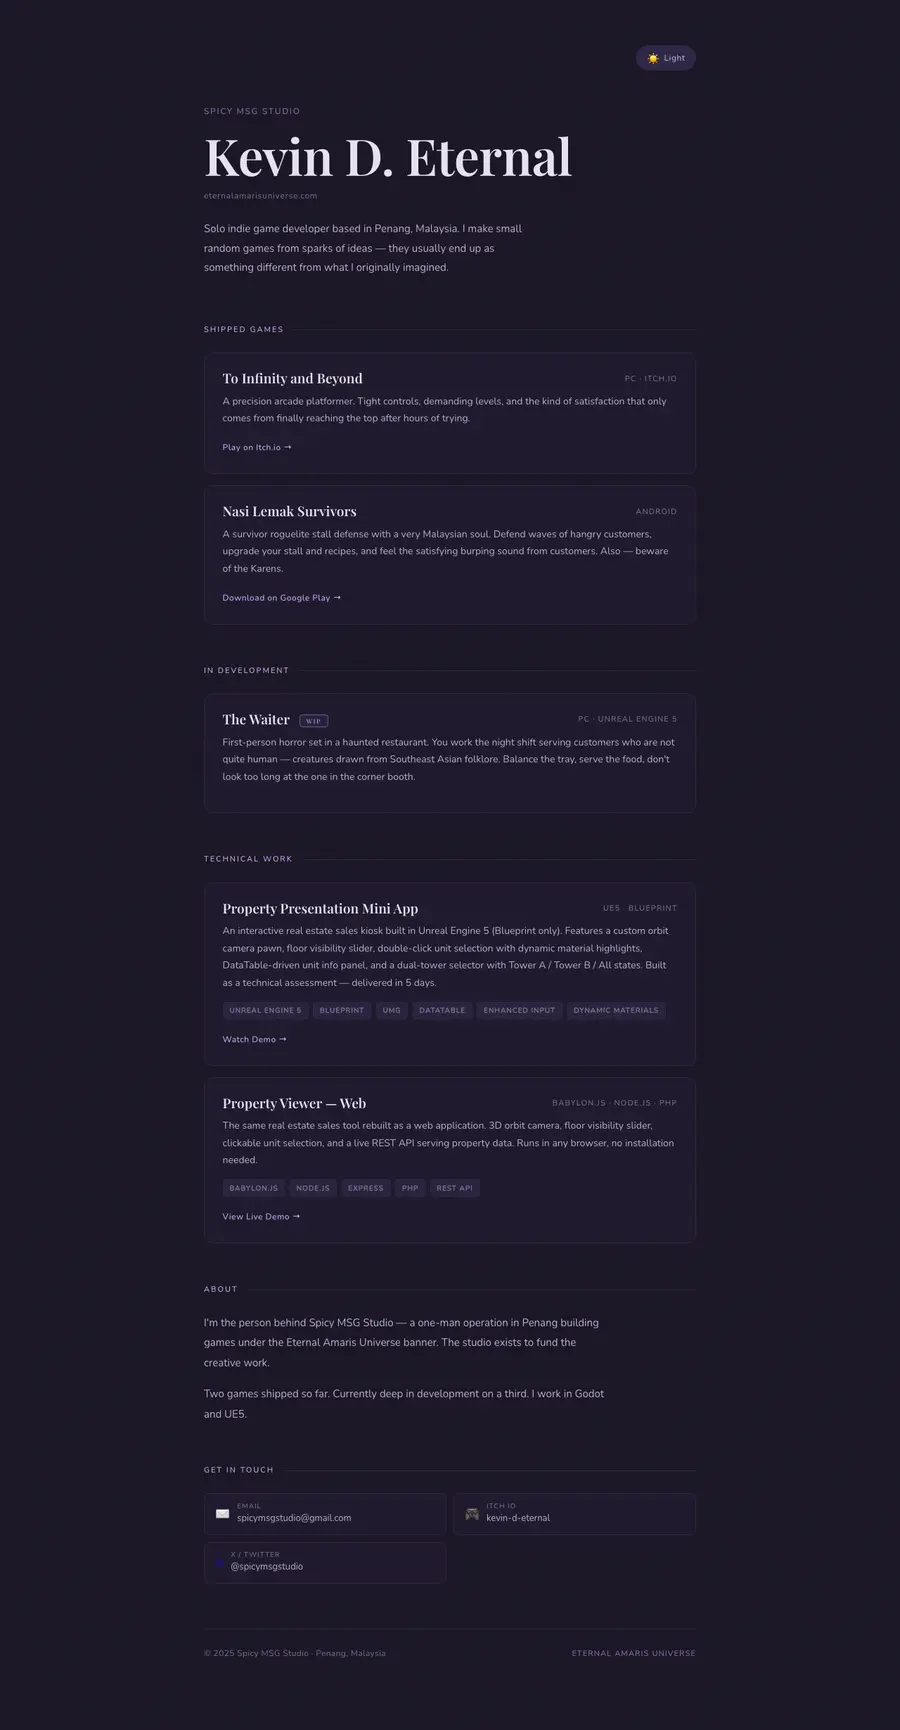
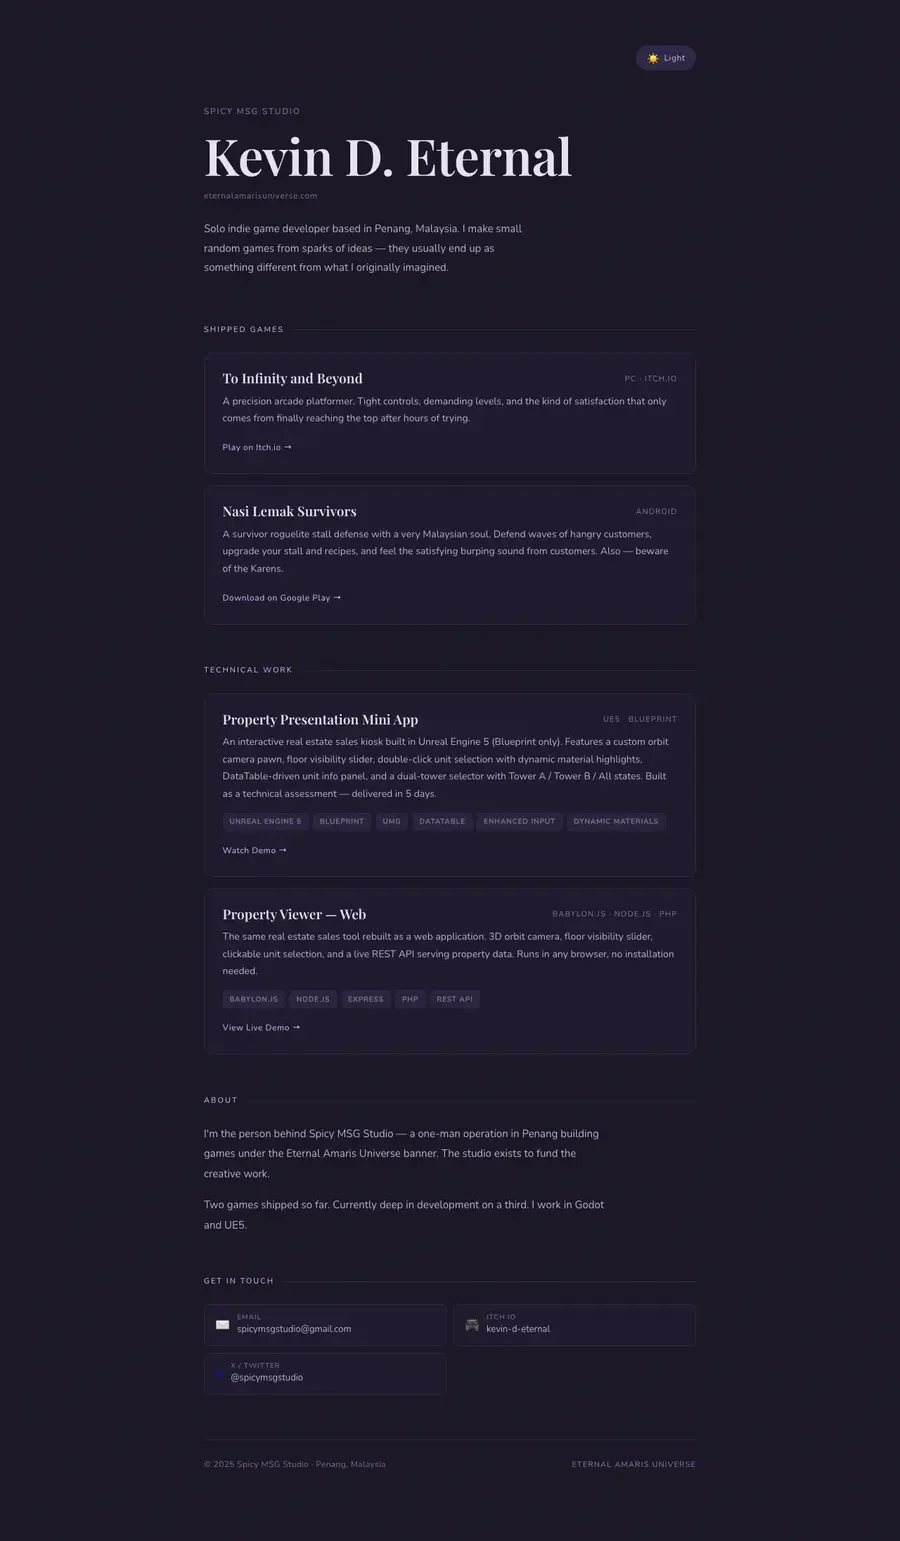
Show only shipped and active games, and surface current ones on the homepage
Public portfolio = shipped work plus active projects chosen for display.
Games now declare a required portfolioVisible flag, and a new "archived"
status can never be public (enforced by the schema). Every public read of
the collection goes through src/lib/portfolio.ts, so routes, the games
list, the command palette, RSS and the sitemap all share one filter; a
test rejects any direct getCollection("games") elsewhere.

The Waiter is retired: archived and hidden, with no route and no mention
on any built page or feed. Its source stays as history. The time-machine
captures cut its card out and say so.

The homepage gains a "Current games" row driven by featured and
featuredOrder metadata, led by Hustle Fussle with its real screenshot, a
Play live demo button and a case-study link, then I Got a System and Nasi
Lemak Survivors. The micro-demos and "All games" stay.

The games headline no longer hard-codes a count.

diff --git a/src/styles/global.css b/src/styles/global.css
@@ -342,6 +342,42 @@ button { font: inherit; }
 .flight-sword .ornate-sword { transform: scale(.72); transform-origin: center; }
 
 .games-section { position: relative; }
+/* Homepage "Current games": real projects from the collection (public +
+   featured, in featuredOrder), ahead of the decorative micro-demos. */
+.featured-games { margin: 0 0 104px; }
+.featured-games > .kicker { margin: 0 0 26px; }
+.featured-game-grid { display: grid; grid-template-columns: 1.7fr 1fr 1fr; border-top: 1px solid var(--line); border-bottom: 1px solid var(--line); }
+.featured-game { display: flex; gap: 26px; min-width: 0; padding: 28px 30px; border-right: 1px solid var(--line); transition: background .25s ease; }
+.featured-game:last-child { border-right: 0; }
+.featured-game:hover { background: rgba(182,156,255,.035); }
+.featured-game.lead { background: rgba(182,156,255,.045); }
+.featured-game-cover { flex: 0 0 170px; align-self: flex-start; overflow: hidden; border: 1px solid var(--line); border-radius: 14px; background: #0b0d12; }
+.featured-game-cover img { display: block; width: 100%; height: auto; }
+.featured-game-copy { display: flex; flex-direction: column; align-items: flex-start; min-width: 0; }
+.featured-game h3 { margin: 16px 0 12px; font-size: clamp(24px,2.4vw,32px); line-height: 1; letter-spacing: -.045em; font-weight: 560; }
+.featured-game h3 a { text-decoration: none; }
+.featured-game h3 a:hover { color: var(--violet); }
+.featured-game .project-summary { font-size: 14px; line-height: 1.6; }
+.featured-game-links { margin-top: auto; padding-top: 26px; display: flex; flex-wrap: wrap; align-items: center; gap: 14px 22px; }
+.featured-game-links .text-link { margin-top: 0; padding-top: 0; }
+.featured-game-links .primary-button { min-width: 0; gap: 18px; padding: 12px 16px; }
+@media (max-width: 1080px) {
+  .featured-game-grid { grid-template-columns: 1fr 1fr; }
+  .featured-game.lead { grid-column: 1 / -1; border-right: 0; border-bottom: 1px solid var(--line); }
+  .featured-game:nth-child(2) { border-right: 1px solid var(--line); }
+}
+@media (max-width: 760px) {
+  .featured-games { margin-bottom: 72px; }
+  .featured-game-grid { grid-template-columns: 1fr; }
+  .featured-game { padding: 26px 4px; border-right: 0; border-bottom: 1px solid var(--line); }
+  .featured-game:nth-child(2) { border-right: 0; }
+  .featured-game:last-child { border-bottom: 0; }
+  /* A full phone screenshot is too tall beside the copy: show the lead's key
+     moment as a wide crop above it instead. */
+  .featured-game.lead { flex-direction: column; gap: 20px; padding: 22px 16px 26px; }
+  .featured-game-cover { flex-basis: auto; width: 100%; aspect-ratio: 16 / 10; }
+  .featured-game-cover img { height: 100%; object-fit: cover; object-position: 50% 82%; }
+}
 .games-section::before { content: ""; position: absolute; inset: 8% -30% auto; height: 680px; z-index: -1; background: radial-gradient(circle,rgba(182,156,255,.08),transparent 60%); }
 .game-showcase { border: 1px solid var(--line); border-radius: 26px; overflow: hidden; background: #0b0d12; }
 .game-stage-shell { position: relative; min-height: 470px; scroll-margin-top: 18px; background: radial-gradient(circle at 50% 50%,rgba(182,156,255,.11),transparent 48%); }

diff --git a/src/content.config.ts b/src/content.config.ts
@@ -29,11 +29,26 @@ const work = defineCollection({
   }),
 });
 
+/**
+ * Public portfolio = shipped work plus active projects Kevin chooses to show.
+ * `portfolioVisible` is required and explicit, so a status such as
+ * "in-development" never publishes an entry on its own: experiments, paused
+ * and retired prototypes stay in the repository as history without
+ * cluttering the site. Every public query goes through `src/lib/portfolio.ts`.
+ */
 const games = defineCollection({
   loader: glob({ base: "./src/content/games", pattern: "**/*.{md,mdx}" }),
-  schema: z.object({
+  schema: ({ image }) => z.object({
     title: z.string(),
-    status: z.enum(["released", "in-development", "prototype"]),
+    /** `archived`: no longer developed. Never public, whatever else is set. */
+    status: z.enum(["released", "in-development", "prototype", "archived"]),
+    portfolioVisible: z.boolean(),
+    /** Homepage "Current games" row, in `featuredOrder`. Must be public. */
+    featured: z.boolean().default(false),
+    featuredOrder: z.number().default(99),
+    /** Real screenshot for the lead homepage card. Needs `coverAlt`. */
+    cover: image().optional(),
+    coverAlt: z.string().optional(),
     statusLabel: z.string(),
     platforms: z.array(z.string()),
     engine: z.string(),
@@ -47,6 +62,16 @@ const games = defineCollection({
     /** Playable Phaser vignette, booted on click only. */
     demo: z.enum(["system", "nasi", "infinity"]).optional(),
     order: z.number().default(99),
+  }).superRefine((game, ctx) => {
+    if (game.status === "archived" && game.portfolioVisible) {
+      ctx.addIssue({ code: "custom", path: ["portfolioVisible"], message: "archived games cannot be portfolio-visible" });
+    }
+    if (game.featured && (!game.portfolioVisible || game.status === "archived")) {
+      ctx.addIssue({ code: "custom", path: ["featured"], message: "only public games can be featured" });
+    }
+    if (game.cover && !game.coverAlt) {
+      ctx.addIssue({ code: "custom", path: ["coverAlt"], message: "a cover image needs alt text" });
+    }
   }),
 });
 

diff --git a/src/lib/portfolio.ts b/src/lib/portfolio.ts
@@ -1,0 +1,27 @@
+import { getCollection, type CollectionEntry } from "astro:content";
+
+/**
+ * The only way public pages read the games collection. Routes, lists, the
+ * command palette, RSS and the homepage all go through here, so a hidden or
+ * archived entry cannot leak through a page that forgot to filter. A test
+ * rejects direct `getCollection("games")` calls anywhere else.
+ */
+export type Game = CollectionEntry<"games">;
+
+/** Public = explicitly opted in and not archived. Status alone never publishes. */
+export const isPublicGame = (game: Game): boolean =>
+  game.data.portfolioVisible && game.data.status !== "archived";
+
+export async function getPublicGames(): Promise<Game[]> {
+  const games = await getCollection("games", isPublicGame);
+  return games.sort((a, b) => a.data.order - b.data.order);
+}
+
+/** The homepage "Current games" row: public, featured, in featuredOrder. */
+export async function getFeaturedGames(limit = 3): Promise<Game[]> {
+  const games = await getPublicGames();
+  return games
+    .filter((game) => game.data.featured)
+    .sort((a, b) => a.data.featuredOrder - b.data.featuredOrder)
+    .slice(0, limit);
+}

diff --git a/src/pages/rss.xml.ts b/src/pages/rss.xml.ts
@@ -1,5 +1,6 @@
 import type { APIContext } from "astro";
 import { getCollection } from "astro:content";
+import { getPublicGames } from "../lib/portfolio";
 
 export const prerender = true;
 
@@ -29,7 +30,7 @@ export async function GET(context: APIContext) {
   const site = context.site!;
   const [work, games] = await Promise.all([
     getCollection("work"),
-    getCollection("games"),
+    getPublicGames(),
   ]);
 
   const items: FeedItem[] = [
